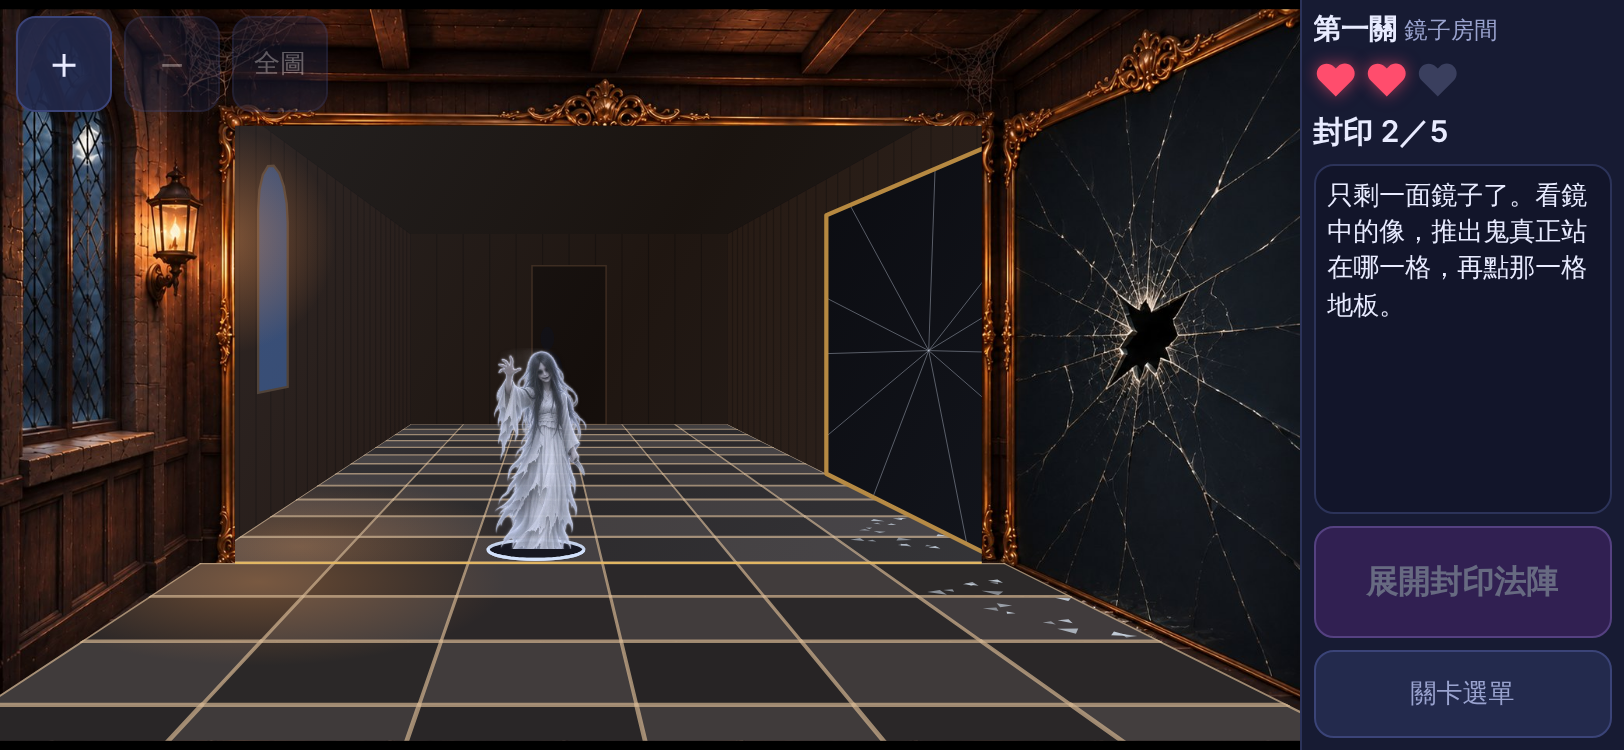
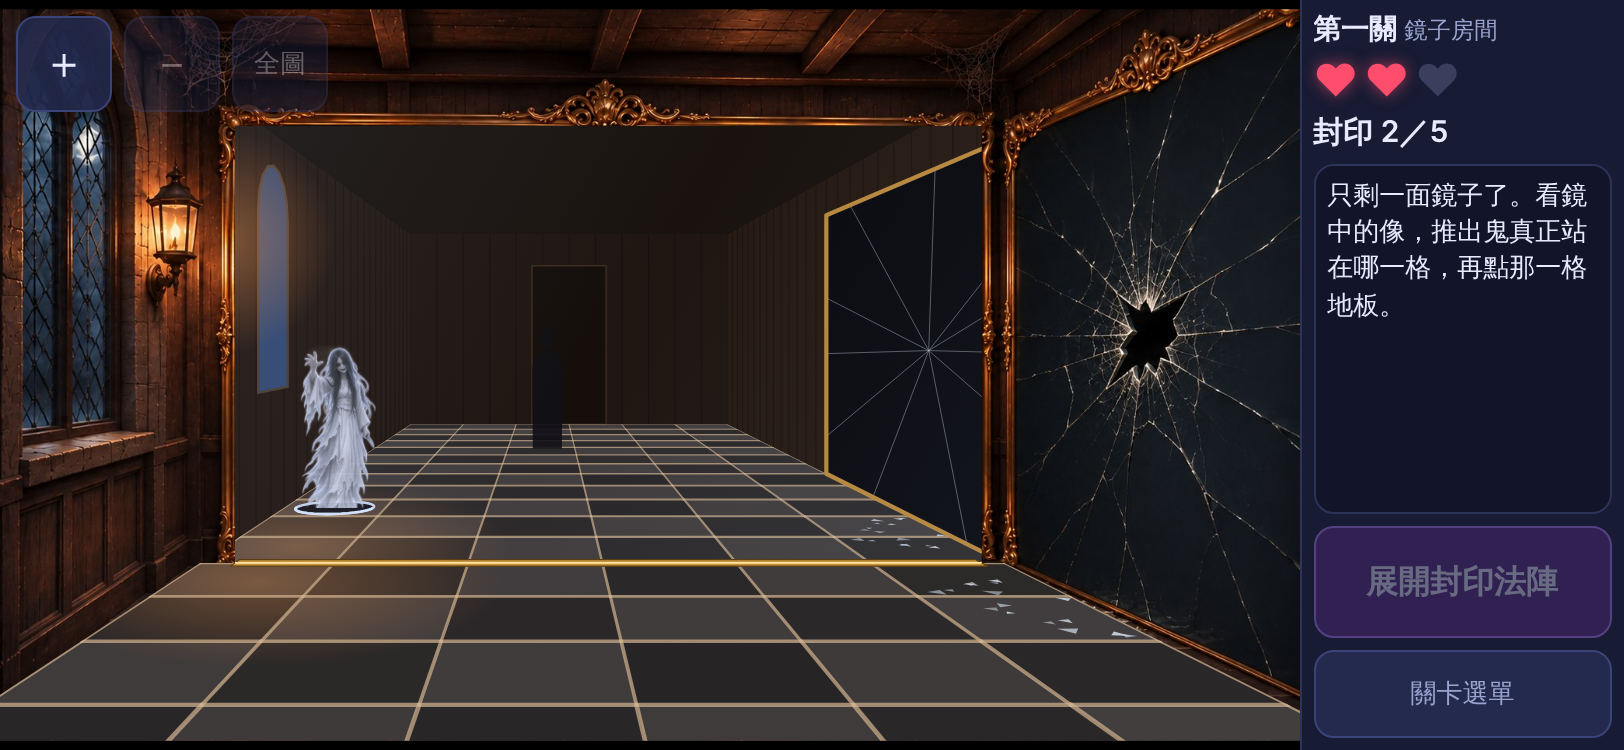
feat: thicker gold threshold at the base of each mirror; note ghost back-view plan
Claude-Session: https://claude.ai/code/session_01HvGmyTGiFBo42Y4CfnbQZX

Changed region(s): [[0.1232, 0.46, 0.6158, 0.7667], [0.1847, 0.46, 0.2463, 0.7053]]

diff --git a/prototype/plane-mirror/app.js b/prototype/plane-mirror/app.js
@@ -349,6 +349,27 @@
     }
     ctx.restore();
   }
+  // 鏡子底邊的金色門檻：一條貼在地板上、有寬度的金框，分清楚鏡內與鏡外。
+  // 畫成地板上的長條再投影，所以近的地方粗、遠的地方細；寬度以鏡面為中線、鏡內鏡外各一半。
+  var BASE_BAR = 0.11; // 半寬（格）
+  function drawBaseBar(id) {
+    var m = R.mirrors[id], g = m.glass, w = BASE_BAR, strip, mid;
+    if (m.axis === 'z') {
+      strip = [{ x: g.a, y: 0, z: m.value - w }, { x: g.b, y: 0, z: m.value - w }, { x: g.b, y: 0, z: m.value + w }, { x: g.a, y: 0, z: m.value + w }];
+      mid = [{ x: g.a, y: 0, z: m.value }, { x: g.b, y: 0, z: m.value }];
+    } else {
+      strip = [{ x: m.value - w, y: 0, z: g.a }, { x: m.value - w, y: 0, z: g.b }, { x: m.value + w, y: 0, z: g.b }, { x: m.value + w, y: 0, z: g.a }];
+      mid = [{ x: m.value, y: 0, z: g.a }, { x: m.value, y: 0, z: g.b }];
+    }
+    var p = C.projectPoly(cam, strip), c = C.projectPoly(cam, mid);
+    if (p.length < 3) return;
+    path(p); ctx.fillStyle = '#c9963f'; ctx.fill();
+    ctx.strokeStyle = '#5a3d12'; ctx.lineWidth = 1.5; ctx.lineJoin = 'round'; ctx.stroke();
+    if (c.length >= 2) { // 中間一條亮線＝鏡面的位置
+      ctx.strokeStyle = '#ffe2a0'; ctx.lineWidth = 2;
+      ctx.beginPath(); ctx.moveTo(c[0].x, c[0].y); ctx.lineTo(c[1].x, c[1].y); ctx.stroke();
+    }
+  }
   function glassScreen(id) { return C.projectPoly(cam, C.mirrorPoly(R.mirrors[id])); }
 
   // ---------- 法陣（畫在真的地板上；不畫進鏡子裡，理由見 findings） ----------
@@ -403,8 +424,7 @@
       var g = glassScreen(id);
       drawView([id], g);
       // 鏡面與地板相接的那條線（數格子的基準）
-      ctx.strokeStyle = 'rgba(232,186,96,.9)'; ctx.lineWidth = 3;
-      ctx.beginPath(); ctx.moveTo(g[3].x, g[3].y); ctx.lineTo(g[2].x, g[2].y); ctx.stroke();
+      drawBaseBar(id);
     });
     if (state.phase === 2 && R.brokenDarken > 0) fillPoly(R.brokenGlassPx, 'rgba(5,5,10,' + R.brokenDarken + ')'); // 圖裡碎鏡若有畫死的反射：壓暗
     ['back', 'right'].forEach(function (id) {

diff --git a/PROJECT.md b/PROJECT.md
@@ -220,6 +220,12 @@
   1. placeholder 鬼不適合第一關 → 換成女鬼、從地板冒出來（已改）。
   2. 要換成落地鏡，不然很難玩 → 已換成 `Mirror4.png`／`Mirror5.png` 並重新量相機參數（已改；findings 文末「追加：換成落地鏡的背景圖」有前後比較）。
 - **換圖後的版本還沒有人試玩。** 仍在的風險：單鏡階段正面鏡裡相鄰兩排的像在手機上只差約 10 CSS px；地板最遠一排 17 CSS px 高。兩者都有放大鈕可補救，要真人在手機上試。
+- **使用者試玩落地鏡版本的回饋（2026-11-17，還在陸續給）**：
+  1. 鏡子底邊的框要粗一點 → 已改成有寬度的金色門檻。
+  2. 使用者在對話裡貼了一張**女鬼的背面圖**（長髮背影，舉起的手在畫面右邊、刀在左邊），問能不能用。**可以用，而且正好解決 findings 的 ISSUE 6**：鬼面向玩家時，正面鏡照到的是牠的背面。做法（尚未實作，等圖上傳到 `docs/concepts/`，建議檔名 `ghost01-back.png`）：
+     - 鬼面向玩家。直接看（抓到後現身）與右鏡裡用正面圖；正面鏡裡用背面圖。判斷方式：把鬼的朝向（+z）跟著鏡射一起變換，看相機在那片人形的正面還是背面。
+     - 背面圖本身是「從背後直接看」的樣子（舉手在右），這是對的；但鏡子裡的背影要左右相反（舉手在左，和現身時同一邊）。程式把背面圖水平翻轉後貼在同一片人形上即可，不必請美工重畫。
+     - 兩張圖的大小、腳底位置要對齊（背面圖也要在裙襬切平）。
 - 等使用者回覆：PENDING 13 的各項（其中「背景圖要不要重畫」已解決）。
 - 使用者手上有兩段給美工 AI 的提示詞（地磚貼圖、有門那面牆的正面圖），圖到了再換上；目前地板與鏡中的牆都是程式畫的。
 - **拖曳連線由另一台電腦的 Claude 在做**（凸、凹透鏡），這個分支沒有碰那兩個原型。

diff --git a/docs/prototype-findings-mirror.md b/docs/prototype-findings-mirror.md
@@ -168,3 +168,10 @@
 ### 測試
 
 幾何 342/342、e2e 150/150（橫向手機觸控＋桌機）。**這個版本還沒有真人試玩。**
+
+---
+
+## 追加：使用者試玩落地鏡版本的回饋（2026-11-17）
+
+1. **鏡子底邊的框要粗一點，不然分不清鏡內鏡外。** 已改：原本是一條 3 px 的金線，改成貼在地板上、有寬度的金色門檻（以鏡面為中線，鏡內鏡外各 0.11 格，中間一條亮線是鏡面的位置）。畫成地板上的長條再投影，所以近處粗、遠處細。e2e 150/150。
+2. 使用者提供了**女鬼的背面圖**，問能不能用、說它左右顛倒了。判斷與做法見 `PROJECT.md` 交接點（圖還沒進 repo，等使用者上傳）。
